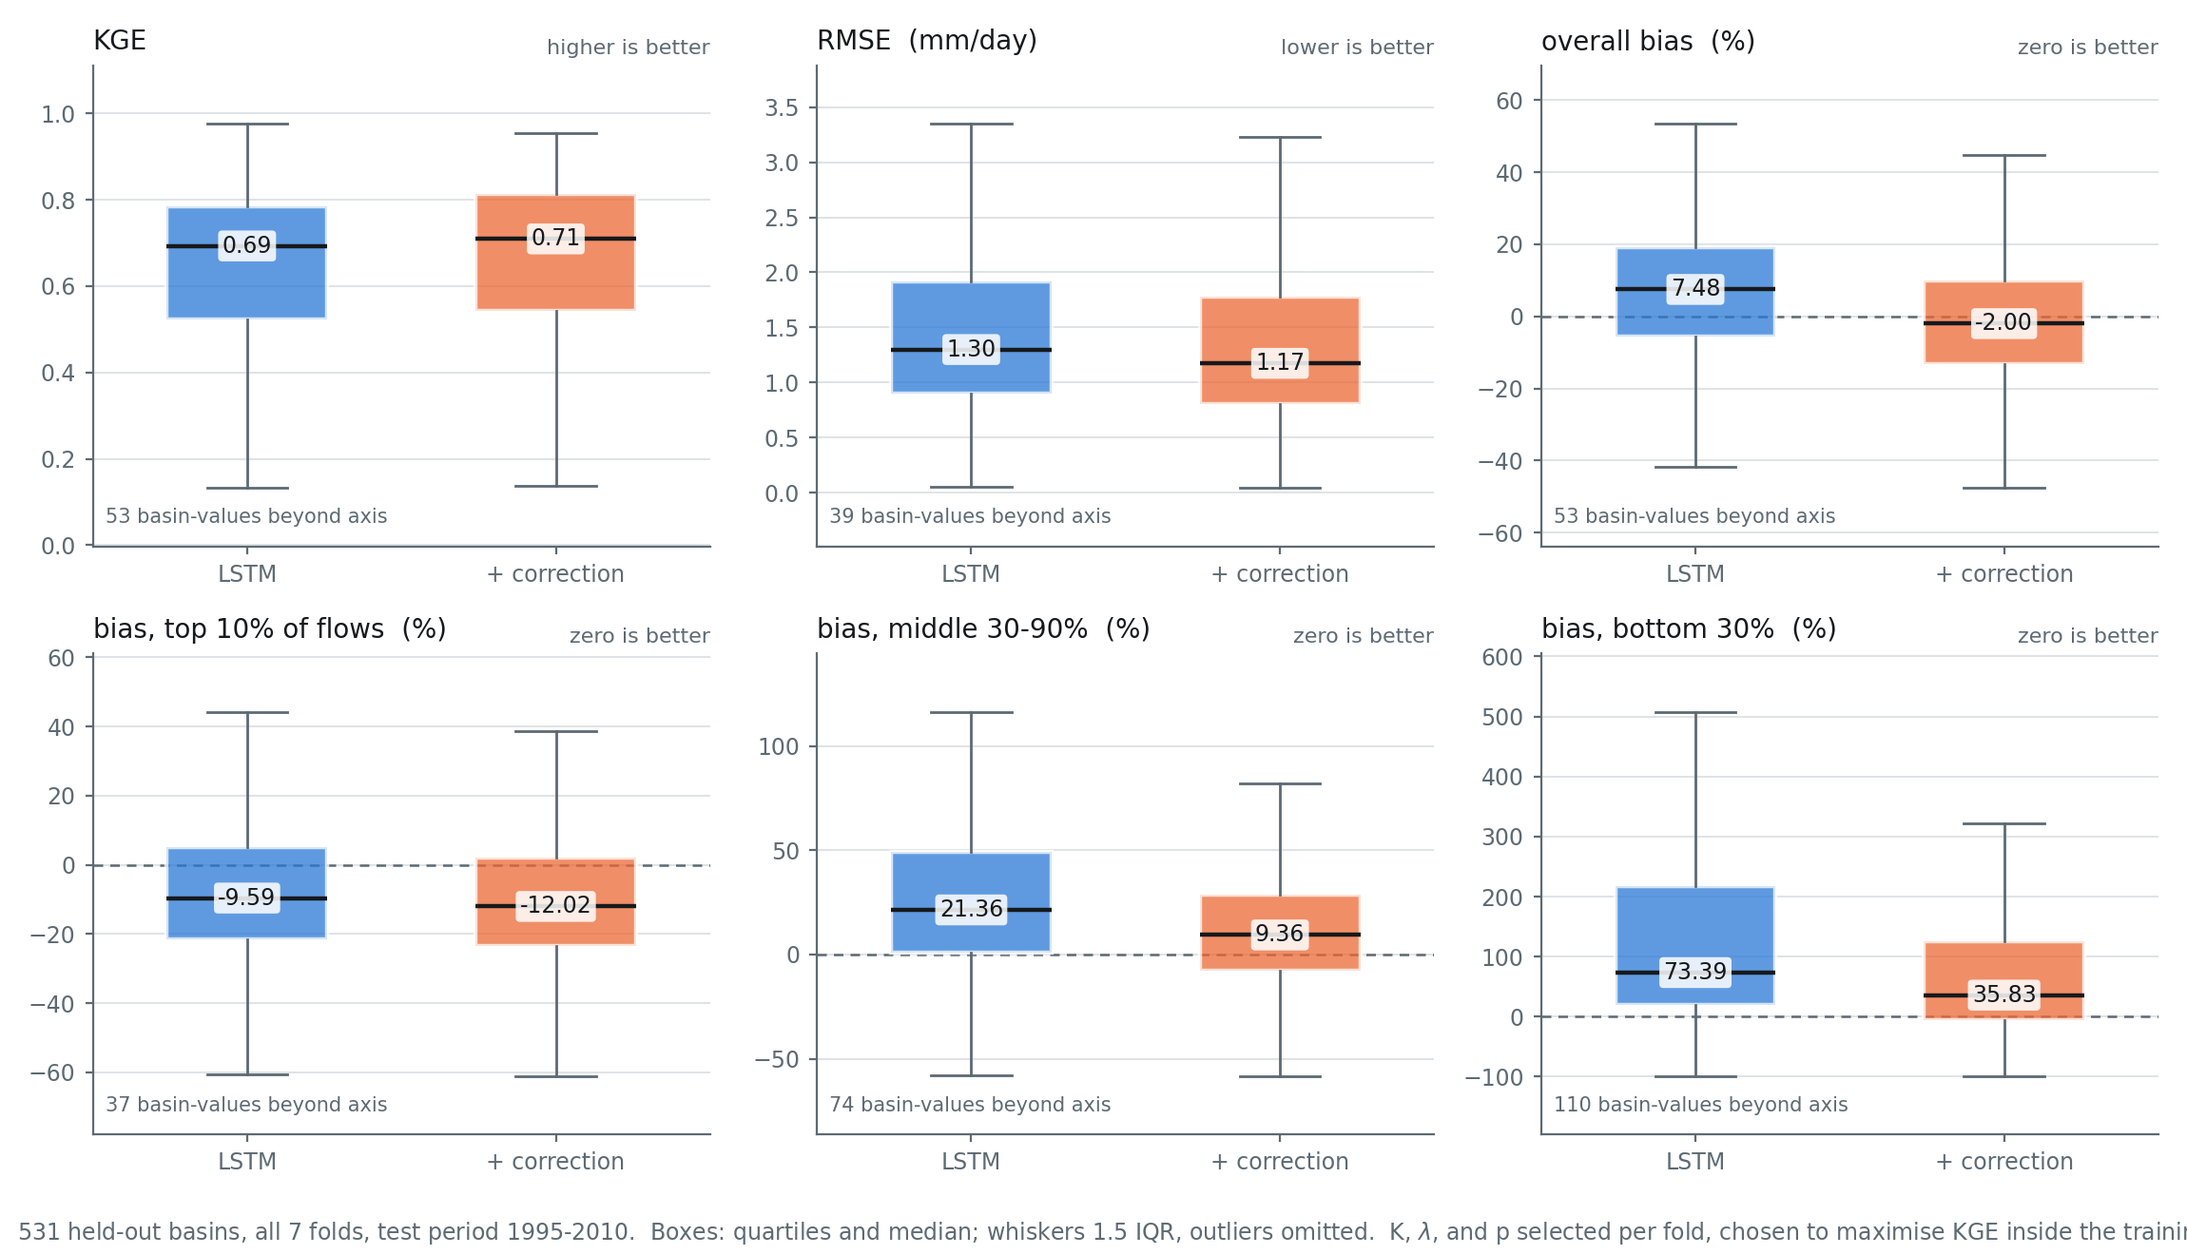
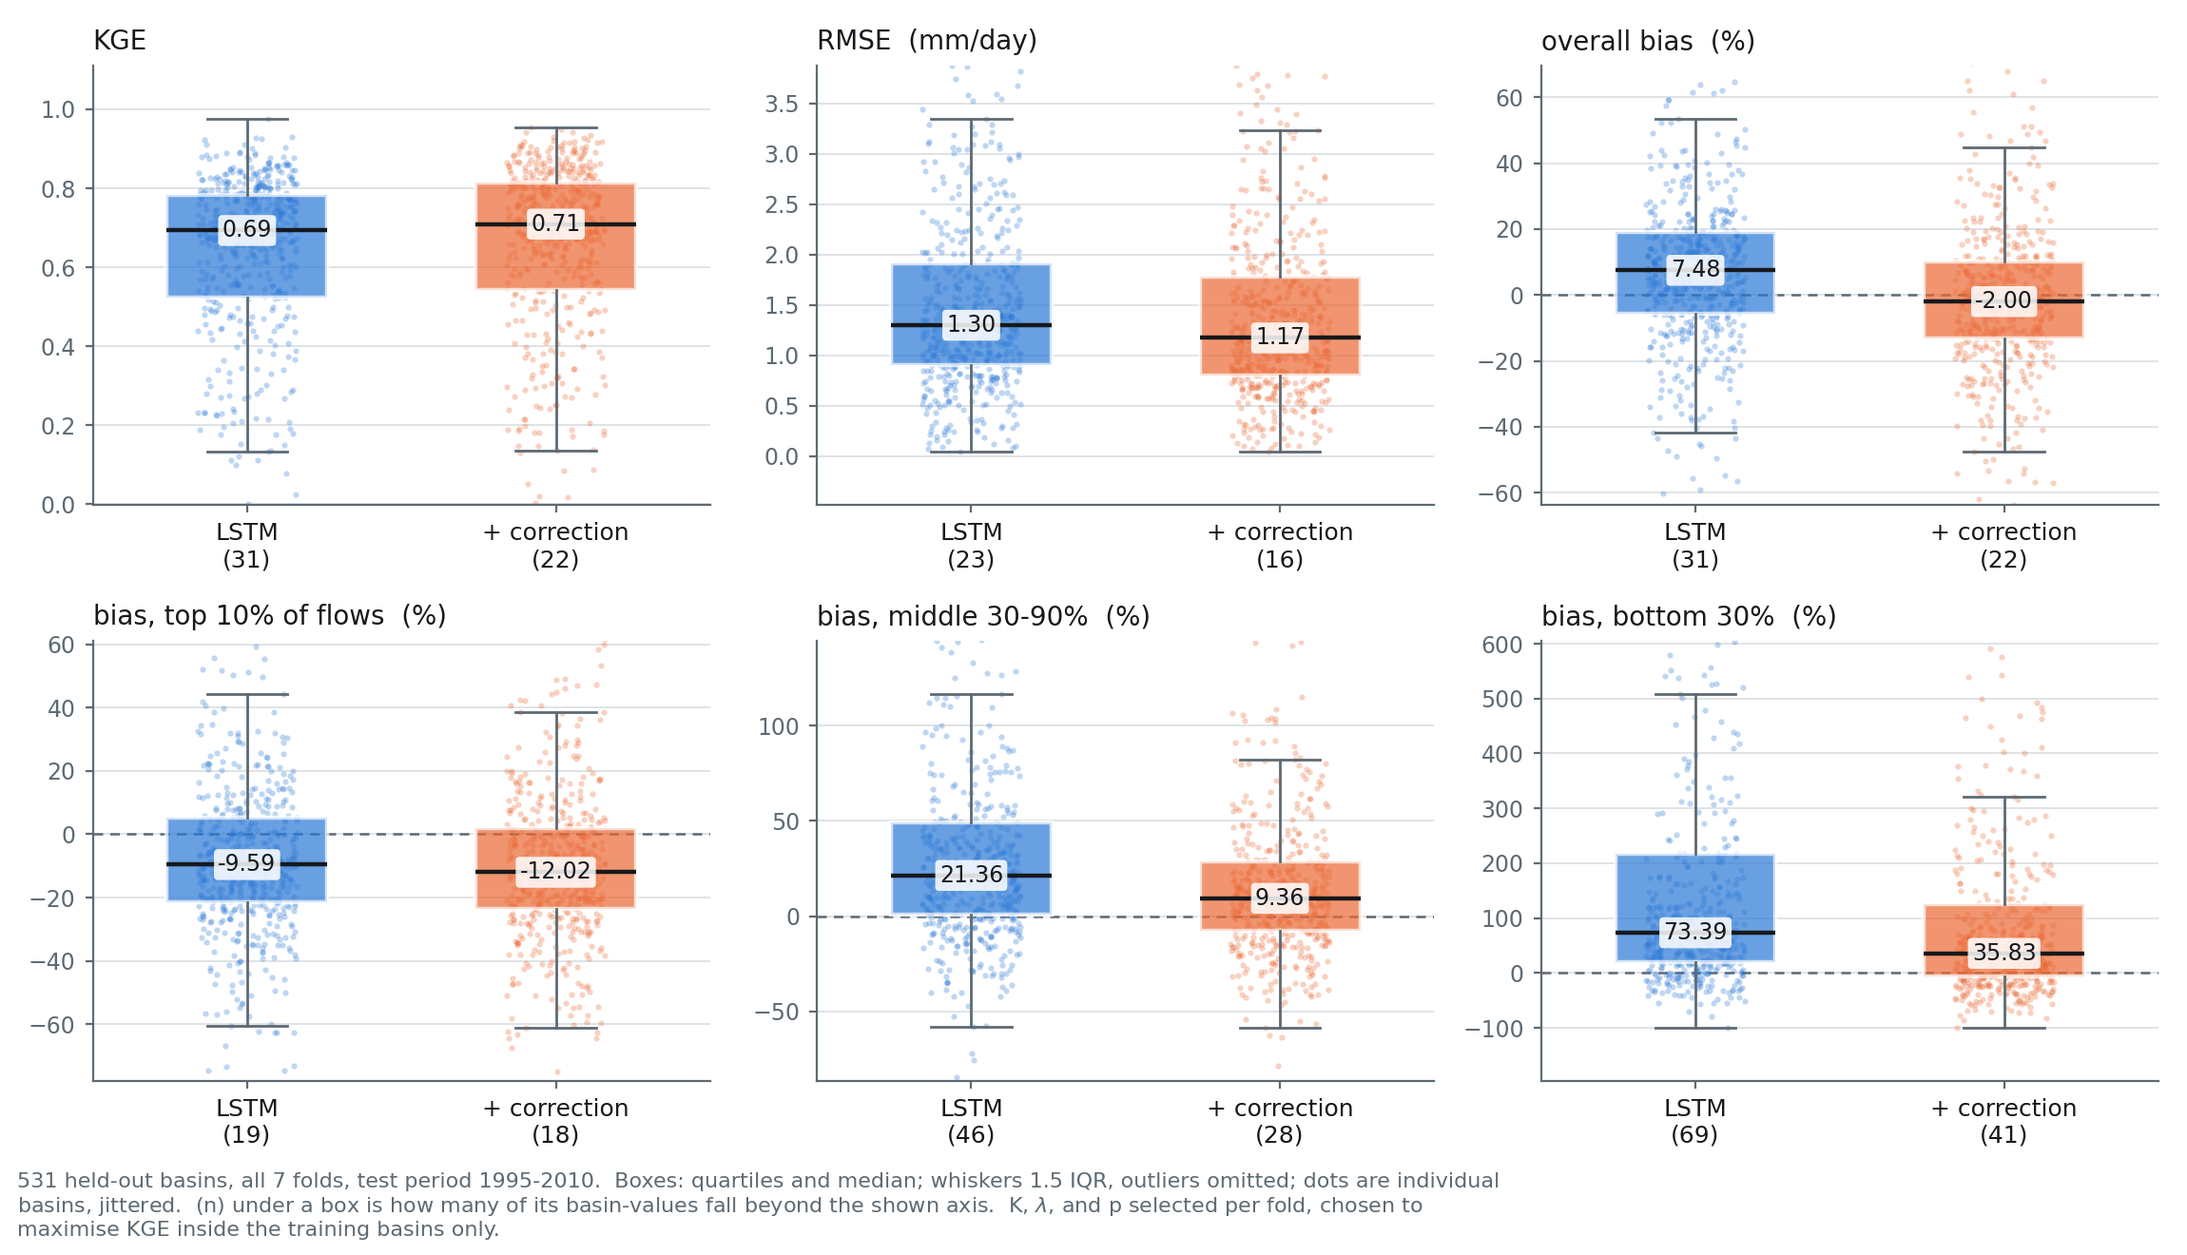
Polish four figures: accuracy, clarity, and less clutter
- recon_gauged_cdf title said "held-out basins", but the pilot's
  basins are gauged -- only the test years are held out. Say
  "held-out time period" instead.
- Donor map titles simplified to state what the map shows instead of
  listing fold/group/p; that detail moved to the caption.
- Hyperparameter figure: three panels down to 8in total width (was
  15.5in) via a shared y-axis instead of one per panel, thinned K-axis
  ticks so they don't collide, and shorter panel titles/legend labels.
- Boxplots: dropped the "higher/lower/zero is better" annotations,
  added a faint jittered scatter of each panel's own basins behind
  the box, and moved the "N beyond axis" count from one aggregate
  line to a per-box bracket under each x-tick, so it's clear which
  side it belongs to.

diff --git a/figures/make_boxplot_figure.py b/figures/make_boxplot_figure.py
@@ -15,9 +15,14 @@ The flow bands are cut on the OBSERVED flow (Yilmaz et al. 2008), so "high-flow 
 model's error on the days the river really was high, not on the days it predicted high.
 
 For the bias panels zero is the target and the dashed line marks it, so a box that straddles
-zero more tightly is better regardless of which side it sits on. For KGE higher is better;
-for RMSE lower is better. Each panel says which way is good, because the direction changes
-between them and a reader should not have to remember.
+zero more tightly is better regardless of which side it sits on.
+
+Each box is drawn over its own basins as a faint jittered scatter, so the box summarises what
+is actually visible underneath it rather than standing in for it. The axis is scaled to the
+drawn whiskers, not the full data range, so a handful of extreme basins (percent bias on
+near-zero-flow streams can run to five figures) do not flatten every other box in the panel;
+the bracketed count under each box is how many of that box's basin-values fall outside the
+shown range.
 
 Colour: `figures/palette.py` slots 0 and 1, validated there (normal dE 33.6, CVD >= 24.5).
 Boxes are also separated in position and labelled on the x-axis, so identity never rests on
@@ -26,6 +31,7 @@ colour alone.
 import argparse
 import os
 import sys
+import textwrap
 
 import matplotlib
 matplotlib.use("Agg")
@@ -40,12 +46,12 @@ from src.config import PERIODS  # noqa: E402
 from src.correct import SCORERS  # noqa: E402
 
 PANELS = [
-    ("kge", "KGE", "higher is better", False),
-    ("rmse", "RMSE  (mm/day)", "lower is better", False),
-    ("pbias", "overall bias  (%)", "zero is better", True),
-    ("bias_high", "bias, top 10% of flows  (%)", "zero is better", True),
-    ("bias_mid", "bias, middle 30-90%  (%)", "zero is better", True),
-    ("bias_low", "bias, bottom 30%  (%)", "zero is better", True),
+    ("kge", "KGE", False),
+    ("rmse", "RMSE  (mm/day)", False),
+    ("pbias", "overall bias  (%)", True),
+    ("bias_high", "bias, top 10% of flows  (%)", True),
+    ("bias_mid", "bias, middle 30-90%  (%)", True),
+    ("bias_low", "bias, bottom 30%  (%)", True),
 ]
 
 
@@ -72,8 +78,9 @@ def main(metrics_csv, out=None, runs_dir="runs", pilot=False, selected_on="nse")
     raw, cor, folds, settings = collect(metrics_csv)
     period_label = test_period_label(runs_dir)
     fig, axes = plt.subplots(2, 3, figsize=(11.5, 6.6))
+    rng = np.random.default_rng(0)
 
-    for ax, (col, title, direction, centred) in zip(axes.ravel(), PANELS):
+    for ax, (col, title, centred) in zip(axes.ravel(), PANELS):
         a = raw[col].to_numpy(); b = cor[col].to_numpy()
         a, b = a[np.isfinite(a)], b[np.isfinite(b)]
         bp = ax.boxplot([a, b], positions=[0, 1], widths=0.52, patch_artist=True,
@@ -82,22 +89,27 @@ def main(metrics_csv, out=None, runs_dir="runs", pilot=False, selected_on="nse")
                         capprops=dict(color=MUTE, lw=1.0))
         for patch, color in zip(bp["boxes"], (RAW, CORRECTED)):
             patch.set_facecolor(color)
-            patch.set_alpha(0.75)
+            patch.set_alpha(0.70)
             patch.set_edgecolor("white")      # 2px surface gap between adjacent fills
             patch.set_linewidth(1.6)
+            patch.set_zorder(3)
+        for element in ("medians", "whiskers", "caps"):
+            for line in bp[element]:
+                line.set_zorder(3)
         if centred:
             ax.axhline(0, color=MUTE, lw=0.9, ls=(0, (4, 3)), zorder=1)
+        # Faint jittered points behind each box: the box summarises what is actually there
+        # rather than standing in for it. Fixed seed so the figure is reproducible.
+        for x, vals, color in ((0, a, RAW), (1, b, CORRECTED)):
+            jitter = rng.uniform(-0.16, 0.16, size=len(vals))
+            ax.scatter(x + jitter, vals, s=5, color=color, alpha=0.30, linewidths=0, zorder=2)
         # medians printed: the boxes are close on several panels and the reader should not
         # have to estimate the difference off the ink.
         for x, v in ((0, np.median(a)), (1, np.median(b))):
             ax.annotate(f"{v:.2f}", (x, v), xytext=(0, 0), textcoords="offset points",
-                        ha="center", va="center", fontsize=8.5, color=INK,
+                        ha="center", va="center", fontsize=8.5, color=INK, zorder=4,
                         bbox=dict(boxstyle="round,pad=0.18", fc="white", ec="none", alpha=0.85))
-        ax.set_xticks([0, 1])
-        ax.set_xticklabels(["LSTM", "+ correction"], fontsize=9, color=INK)
         ax.set_title(title, color=INK, fontsize=10, loc="left", pad=6)
-        ax.text(1.0, 1.015, direction, transform=ax.transAxes, ha="right", va="bottom",
-                fontsize=8, color=MUTE)
         ax.grid(True, axis="y", color=GRID, lw=0.7, zorder=0)
         ax.set_axisbelow(True)
         for side in ("top", "right"):
@@ -114,11 +126,12 @@ def main(metrics_csv, out=None, runs_dir="runs", pilot=False, selected_on="nse")
             lo, hi = min(lo, 0.0), max(hi, 0.0)
         pad = (hi - lo) * 0.16 + 1e-9
         ax.set_ylim(lo - pad, hi + pad)
-        n_off = int((a < lo - pad).sum() + (a > hi + pad).sum()
-                    + (b < lo - pad).sum() + (b > hi + pad).sum())
-        if n_off:
-            ax.text(0.02, 0.04, f"{n_off} basin-values beyond axis", transform=ax.transAxes,
-                    fontsize=7.5, color=MUTE, ha="left", va="bottom")
+        n_off_a = int((a < lo - pad).sum() + (a > hi + pad).sum())
+        n_off_b = int((b < lo - pad).sum() + (b > hi + pad).sum())
+        label = lambda base, n: f"{base}\n({n})" if n else base  # noqa: E731
+        ax.set_xticks([0, 1])
+        ax.set_xticklabels([label("LSTM", n_off_a), label("+ correction", n_off_b)],
+                           fontsize=9, color=INK)
 
     fold_txt = "fold " + ", ".join(str(f) for f in folds) if len(folds) < 7 else "all 7 folds"
     basin_word = "reconstructed (gauged-but-discontinued)" if pilot else "held-out"
@@ -126,18 +139,19 @@ def main(metrics_csv, out=None, runs_dir="runs", pilot=False, selected_on="nse")
                               for fd, (k, lam, pw) in zip(folds, settings))
                     if len(folds) < 4 else "K, $\\lambda$, and p selected per fold")
     caption = (f"{len(raw)} {basin_word} basins, {fold_txt}, test period {period_label}.  "
-              f"Boxes: quartiles and median; whiskers 1.5 IQR, outliers omitted.  "
-              f"{settings_txt}, chosen to maximise {selected_on.upper()} inside the training "
-              f"basins only.")
+              f"Boxes: quartiles and median; whiskers 1.5 IQR, outliers omitted; dots are "
+              f"individual basins, jittered.  (n) under a box is how many of its basin-values "
+              f"fall beyond the shown axis.  {settings_txt}, chosen to maximise "
+              f"{selected_on.upper()} inside the training basins only.")
     if pilot:
         caption += ("  Single-(fold, group) pilot: donors are ~5/6 of that fold's training "
                     "pool, not the full pool a real deployment or the PUB cell has.")
-    fig.text(0.008, 0.012, caption, fontsize=8.5, color=MUTE)
-    fig.tight_layout(rect=(0, 0.04, 1, 1))
+    fig.text(0.008, 0.012, textwrap.fill(caption, 145), fontsize=8, color=MUTE, va="bottom")
+    fig.tight_layout(rect=(0, 0.06, 1, 1))
     out = out or f"{HERE}/recon_ungauged_metrics_boxplots.png"
     fig.savefig(out, dpi=200, facecolor="white")
     print(f"-> {out}")
-    for col, title, _, _ in PANELS:
+    for col, title, _ in PANELS:
         print(f"  {title:<32} {raw[col].median():+8.3f} -> {cor[col].median():+8.3f}")
 
 

diff --git a/figures/make_hyperparam_figure.py b/figures/make_hyperparam_figure.py
@@ -27,6 +27,7 @@ caption, and no line needs to be told apart from another. Colour: `figures/palet
 import argparse
 import os
 import sys
+import textwrap
 
 import matplotlib
 matplotlib.use("Agg")
@@ -66,7 +67,7 @@ def main(tuning="runs/recon_ungauged_tuning_nse.csv", out=None, pilot=False, met
     p_grid = sorted(df.p.unique())
     p_pos = {pw: i for i, pw in enumerate(p_grid)}
 
-    fig, (axk, axl, axp) = plt.subplots(1, 3, figsize=(15.5, 4.6))
+    fig, (axk, axl, axp) = plt.subplots(1, 3, figsize=(8.0, 4.1), sharey=True)
     single = len(folds) == 1
     lw = 2.2 if single else 1.5
     alpha = 1.0 if single else 0.75
@@ -94,53 +95,54 @@ def main(tuning="runs/recon_ungauged_tuning_nse.csv", out=None, pilot=False, met
         axp.plot([p_pos[best.p]], [best.score], "o", ms=7, color=CORRECTED,
                  markeredgecolor="white", markeredgewidth=1.5, zorder=5)
 
+    # Too many K values to label every tick in a narrow panel -- thin to ~6 evenly spaced labels.
+    step = max(1, -(-len(k_grid) // 6))
     axk.set_xticks(range(len(k_grid)))
-    axk.set_xticklabels(k_grid)
-    axk.set_xlabel("K, number of neighbouring gauges", color=INK, fontsize=10)
-    axk.set_title("(a)  number of gauges consulted", color=INK, fontsize=11, loc="left", pad=8)
-    axl.set_xlabel("$\\lambda$, fraction of the neighbours' error applied", color=INK, fontsize=10)
-    axl.set_title("(b)  how much of their error to believe", color=INK, fontsize=11,
-                  loc="left", pad=8)
+    axk.set_xticklabels([str(k) if i % step == 0 else "" for i, k in enumerate(k_grid)])
+    axk.set_xlabel("K, gauges consulted", color=INK, fontsize=10)
+    axk.set_title("(a)  gauges consulted", color=INK, fontsize=10.5, loc="left", pad=8)
+    axl.set_xlabel("$\\lambda$, fraction of error applied", color=INK, fontsize=10)
+    axl.set_title("(b)  error trusted", color=INK, fontsize=10.5, loc="left", pad=8)
     axp.set_xticks(range(len(p_grid)))
     axp.set_xticklabels(p_grid)
-    axp.set_xlabel("p, IDW power  (weight $\\propto 1/d^p$)", color=INK, fontsize=10)
-    axp.set_title("(c)  how steeply weight favours the nearest gauges", color=INK, fontsize=11,
-                  loc="left", pad=8)
+    axp.set_xlabel("p, IDW power", color=INK, fontsize=10)
+    axp.set_title("(c)  distance weighting", color=INK, fontsize=10.5, loc="left", pad=8)
 
-    lines = ("one line per fold" if not single else "one fold")
-    for ax, held in ((axk, "$\\lambda$ and p at each fold's optimum"),
-                     (axl, "K and p at each fold's optimum"),
-                     (axp, "K and $\\lambda$ at each fold's optimum")):
-        ax.set_ylabel(f"median {metric_name} over cross-validation groups", color=INK, fontsize=10)
-        ax.plot([], [], color=CORRECTED, lw=lw, alpha=alpha,
-                label=f"{lines}, {held}")
+    line_label = "per-fold profile" if not single else "profile"
+    for ax in (axk, axl, axp):
+        ax.plot([], [], color=CORRECTED, lw=lw, alpha=alpha, label=line_label)
         ax.plot([], [], "o", ms=7, color=CORRECTED, markeredgecolor="white", markeredgewidth=1.5,
-                label="that fold's cross-validation optimum")
-        ax.legend(frameon=False, loc="lower right", fontsize=8.5, labelcolor=INK)
+                label="fold optimum")
+        ax.legend(frameon=False, loc="lower right", fontsize=8, labelcolor=INK)
         # NSE and KGE surfaces don't necessarily share a range -- pad around the data rather
         # than assume NSE's usual [0.5, 1.03].
         lo, hi = min(df.score.min(), 0.5), max(df.score.max(), 1.0)
         ax.set_ylim(lo - 0.03, hi + 0.03)
         style(ax)
+    axl.tick_params(labelleft=False)
+    axp.tick_params(labelleft=False)
+    fig.supylabel(f"median {metric_name} over cross-validation groups", color=INK, fontsize=9.5)
 
     basin_word = "reconstructed-group" if pilot else "training"
-    fig.suptitle(f"Cross-validation for K, $\\lambda$, and the IDW power p, within the "
-                f"{basin_word} basins, selected to maximise {metric_name}",
-                 fontsize=12.5, color=INK, x=0.012, ha="left", y=0.975)
+    fig.suptitle(f"Cross-validation for K, $\\lambda$, p  ({basin_word} basins, max {metric_name})",
+                 fontsize=11.5, color=INK, x=0.012, ha="left", y=0.975)
     krange = f"K = {opt_k[0]}" if len(set(opt_k)) == 1 else f"K in [{min(opt_k)}, {max(opt_k)}]"
     lrange = (f"$\\lambda$ = {opt_l[0]:g}" if len(set(opt_l)) == 1
               else f"$\\lambda$ in [{min(opt_l):g}, {max(opt_l):g}]")
     prange = (f"p = {opt_p[0]:g}" if len(set(opt_p)) == 1
               else f"p in [{min(opt_p):g}, {max(opt_p):g}]")
     caption = (f"{len(folds)} fold{'s' if len(folds) > 1 else ''}, {n_basins} {basin_word} "
-              f"basins each, scored leave-one-group-out.  Optima: {krange}, {lrange}, {prange}.  "
+              f"basins each, scored leave-one-group-out.  Each line holds the other two "
+              f"constants at that fold's optimum.  Optima: {krange}, {lrange}, {prange}.  "
               f"$\\lambda$ = 0 is the uncorrected model.  No held-out basin is used here.")
     if pilot:
         caption += ("  Single-(fold, group) pilot: this is the gauged-reconstruction cell "
                     "(OOS-time), not the PUB cell -- donors are ~5/6 of the fold's training "
                     "pool, not the full pool a real deployment or the PUB cell has.")
-    fig.text(0.012, 0.015, caption, fontsize=8.5, color=MUTE)
-    fig.tight_layout(rect=(0, 0.045, 1, 0.945))
+    wrapped = textwrap.wrap(caption, 108)
+    fig.text(0.012, 0.015, "\n".join(wrapped), fontsize=8, color=MUTE, va="bottom")
+    bottom = 0.07 + 0.028 * len(wrapped)
+    fig.tight_layout(rect=(0.02, bottom, 1, 0.90))
     out_stem = "recon_gauged_hyperparameters" if pilot else "recon_ungauged_hyperparameters"
     out = out or f"{HERE}/{out_stem}_{metric}.png"
     fig.savefig(out, dpi=200, facecolor="white")

diff --git a/figures/make_donor_figure.py b/figures/make_donor_figure.py
@@ -83,12 +83,8 @@ def draw_network(ax, runs_dir, k, pw, loc_csv="data/camels531.csv", f_override=N
     ax.set_ylabel("latitude", color=INK, fontsize=10)
     ax.legend(frameon=False, loc="lower left", fontsize=8.5, labelcolor=INK,
               handletextpad=0.4, borderpad=0.2)
-    if f_override is not None:
-        title = (f"Donor links actually used, reconstruction (gauged), fold {f['fold']}, "
-                f"group {f['target_group']} (K = {k}, p = {pw:g})")
-    else:
-        title = f"Donor links actually used, fold {f['fold']} (K = {k}, p = {pw:g})"
-    return f["fold"], title
+    target_group = f["target_group"] if f_override is not None else None
+    return f["fold"], target_group
 
 
 def main(runs_dir="runs", out=None, f_override=None, pilot=False, metric="nse"):
@@ -104,10 +100,14 @@ def main(runs_dir="runs", out=None, f_override=None, pilot=False, metric="nse"):
         n, nf = sum(len(f["held"]) for f in folds), len(folds)
 
     fig, ax = plt.subplots(figsize=(6.8, 5.6))
-    fold, title = draw_network(ax, runs_dir, k, p, f_override=f_override)
+    fold, target_group = draw_network(ax, runs_dir, k, p, f_override=f_override)
     style(ax)
 
+    title = (f"Reconstruction in training basins using donor gauges (K = {k})" if pilot
+             else f"Reconstruction in held-out basins using donor gauges (K = {k})")
     fold_txt = f"fold {fold}" if nf == 1 else f"all {nf} folds"
+    if pilot:
+        fold_txt += f", group {target_group}"
     basin_word = "reconstructed (gauged-but-discontinued)" if pilot else "held-out"
     caption = (f"{n} {basin_word} basins, {fold_txt}. K and p held at the values the pipeline "
               f"selected inside the training basins; the map shows fold {fold}'s network only.")
@@ -115,8 +115,8 @@ def main(runs_dir="runs", out=None, f_override=None, pilot=False, metric="nse"):
         caption += (" Single-(fold, group) pilot: donors are ~5/6 of that fold's training "
                     "pool, not the full pool a real deployment or the PUB cell has.")
     fig.text(0.01, 0.015, textwrap.fill(caption, 110), fontsize=8.5, color=MUTE, va="bottom")
-    fig.subplots_adjust(left=0.10, right=0.97, bottom=0.19, top=0.82)
-    fig.text(0.10, 0.97, textwrap.fill(title, 58), color=INK, fontsize=11, va="top")
+    fig.subplots_adjust(left=0.10, right=0.97, bottom=0.19, top=0.86)
+    fig.text(0.10, 0.97, title, color=INK, fontsize=11.5, va="top")
     out_stem = "recon_gauged_donor_map" if pilot else "recon_ungauged_donor_map"
     out = out or f"{HERE}/{out_stem}_{metric}.png"
     fig.savefig(out, dpi=200, facecolor="white")

diff --git a/figures/make_cdf_figure.py b/figures/make_cdf_figure.py
@@ -83,8 +83,9 @@ def main(metrics_csv, out=None, runs_dir="runs", pilot=False, selected_on="nse")
     ax1.set_ylim(0, 1)
     ax1.set_xlabel("NSE", color=INK, fontsize=10)
     ax1.set_ylabel("fraction of basins below", color=INK, fontsize=10)
-    ax1.set_title("Distribution across held-out basins", color=INK, fontsize=11,
-                  loc="left", pad=8)
+    title = ("Distribution across reconstructed basins, held-out time period" if pilot
+             else "Distribution across held-out basins")
+    ax1.set_title(title, color=INK, fontsize=11, loc="left", pad=8)
     ax1.legend(frameon=False, loc="upper left", fontsize=9, labelcolor=INK)
     style(ax1)
 
